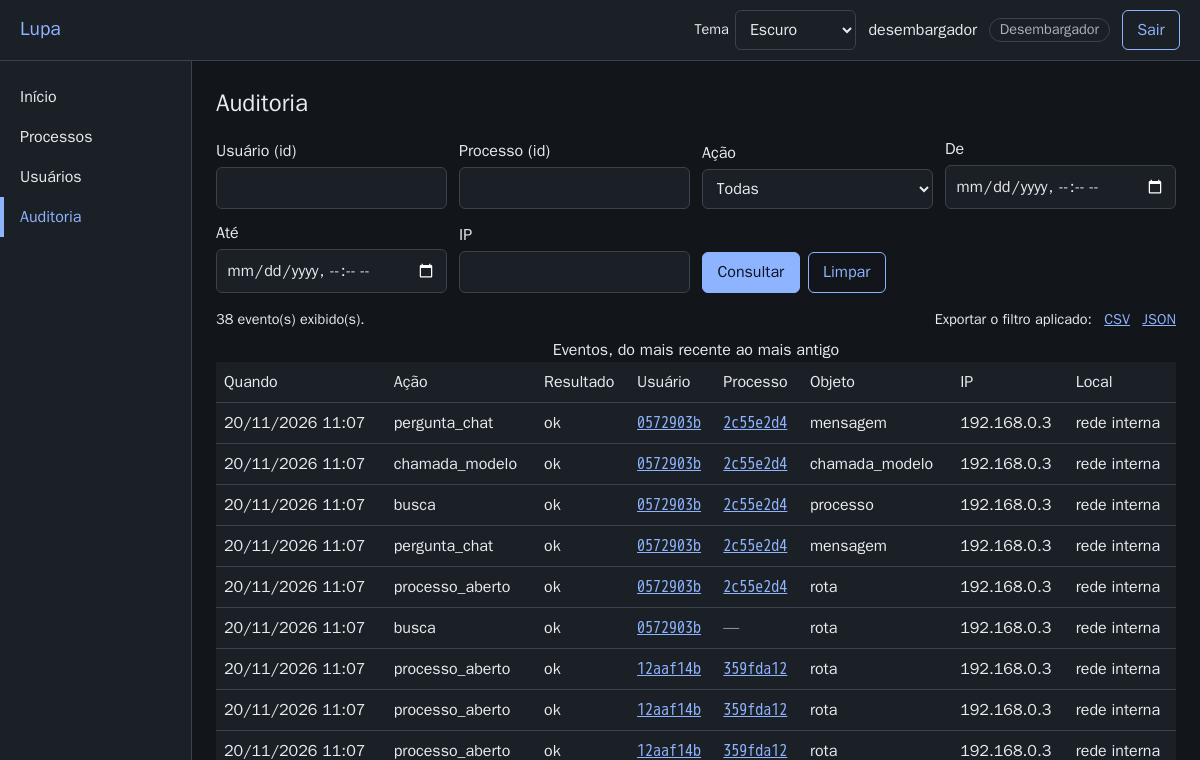
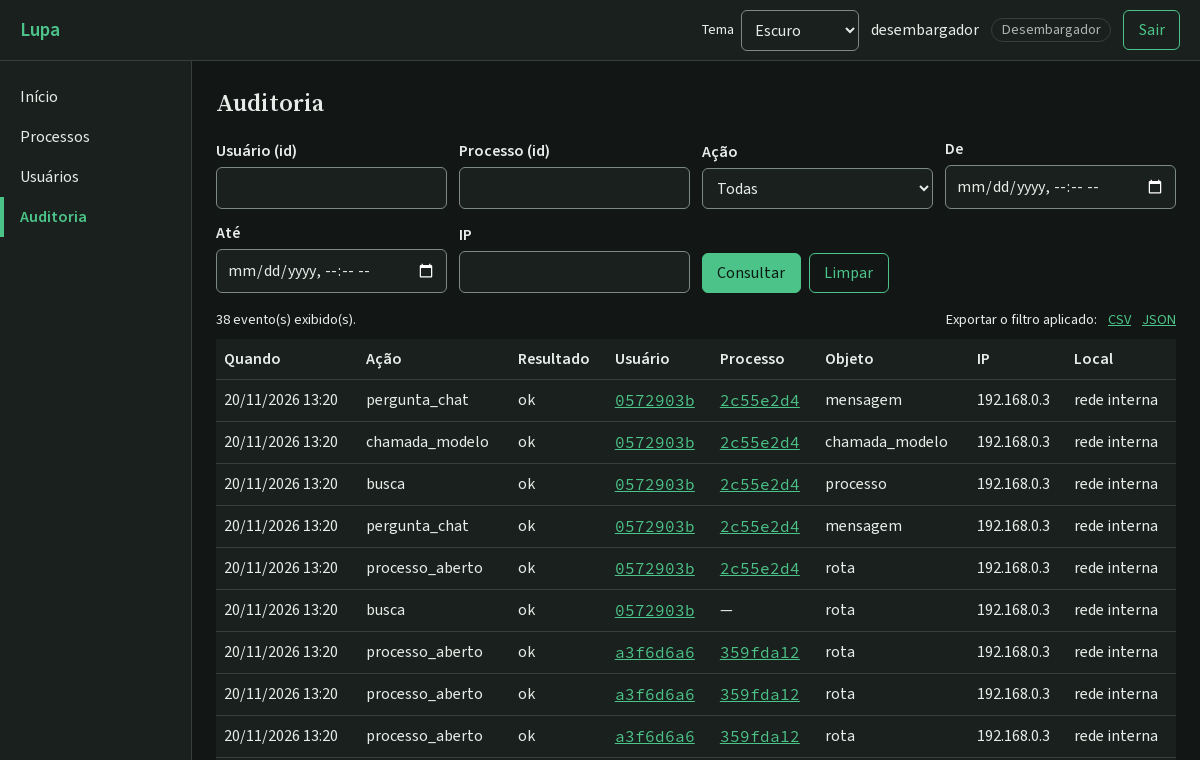
T11.10: axe com todas as regras, tabela a 375 px, capturas da /padrao e guias regerados (RF-VIS-04, RF-VIS-06, RNF-09)

diff --git a/intranet/web/src/lupa_web/templates/auditoria/auditoria.html b/intranet/web/src/lupa_web/templates/auditoria/auditoria.html
@@ -66,9 +66,9 @@
   {% if relatorio %}
   <div data-testid="relatorio-uso">
     <p>Primeiro acesso: {{ relatorio.primeiro }} · Último acesso: {{ relatorio.ultimo }}</p>
-    {% include "componentes/tabela.html" with legenda="Eventos por ação" colunas=colunas_contagem testid="" corpo="auditoria/_linhas_contagem.html" %}
+    {% include "componentes/tabela.html" with legenda="Contagem de eventos" colunas=colunas_contagem testid="" corpo="auditoria/_linhas_contagem.html" %}
     {% if relatorio.chamadas_modelo %}
-    {% include "componentes/tabela.html" with legenda="Chamadas ao modelo por versão" colunas=colunas_chamadas testid="" corpo="auditoria/_linhas_chamadas.html" %}
+    {% include "componentes/tabela.html" with legenda="Chamadas ao modelo em cada versão" colunas=colunas_chamadas testid="" corpo="auditoria/_linhas_chamadas.html" %}
     {% endif %}
     <div class="custo" data-testid="custo-estimado">
       <strong>Custo estimado: {{ relatorio.custo_total }}</strong> — {{ relatorio.custo_estimado.observacao }}

diff --git a/intranet/web/src/lupa_web/static/css/componentes.css b/intranet/web/src/lupa_web/static/css/componentes.css
@@ -123,7 +123,7 @@
   margin-bottom: 1.5rem;
 }
 
-.cartao h3 {
+.cartao[data-componente="cartao"] h3 {
   margin: 0 0 0.5rem;
 }
 

diff --git a/intranet/web/tests/e2e/test_acessibilidade.py b/intranet/web/tests/e2e/test_acessibilidade.py
@@ -1,7 +1,7 @@
 """E2E de acessibilidade: axe-core nos dois temas, teclado com foco visível e tema manual (RNF-09).
 
-Reutiliza as contas criadas pelos fluxos; a varredura não aceita violação séria ou crítica das
-regras WCAG 2.1 A e AA, contraste incluído.
+Reutiliza as contas criadas pelos fluxos; a varredura roda todas as regras do axe, boas práticas
+incluídas, em toda tela e na `/padrao`, e não aceita nenhuma violação (RF-VIS-06).
 """
 
 import re
@@ -19,8 +19,7 @@ pytestmark = pytest.mark.e2e
 
 TEMAS = ("claro", "escuro")
 AXE = files("axe_playwright_python").joinpath("axe.min.js").read_text(encoding="utf-8")
-GRAVES = {"serious", "critical"}
-REGRAS_WCAG = ["wcag2a", "wcag2aa", "wcag21a", "wcag21aa"]
+LARGURA_DO_CELULAR = 375
 TABS_NO_CABECALHO = 12
 TABS_ATE_A_PERGUNTA = 6
 FOCO_VISIVEL = """() => {
@@ -70,7 +69,16 @@ TELAS = (
     ),
     Tela("desembargador", lambda: "/usuarios", re.compile("Usuários")),
     Tela("desembargador", lambda: "/auditoria", re.compile("Auditoria")),
+    Tela("desembargador", lambda: "/padrao", re.compile(r"^Padrão visual$")),
 )
+ROLAGEM = """() => {
+  const raiz = document.documentElement;
+  const regioes = Array.from(document.querySelectorAll('.tabela-rolavel'));
+  return {
+    pagina: raiz.scrollWidth - raiz.clientWidth,
+    tabela: Math.max(...regioes.map((r) => r.scrollWidth - r.clientWidth)),
+  };
+}"""
 
 
 def foco_visivel(page: Page) -> bool:
@@ -108,7 +116,7 @@ def abrir(
 
 
 def varrer(page: Page) -> list[dict[str, Any]]:
-    """Violações do axe-core (WCAG 2.1 A e AA) na página atual.
+    """Violações do axe-core, com todas as regras, na página atual.
 
     Args:
         page: Página carregada.
@@ -117,17 +125,17 @@ def varrer(page: Page) -> list[dict[str, Any]]:
         Violações como o `axe.run` devolve.
     """
     page.evaluate(AXE)
-    opcoes = {"runOnly": {"type": "tag", "values": REGRAS_WCAG}, "resultTypes": ["violations"]}
+    opcoes = {"resultTypes": ["violations"]}
     resultado = page.evaluate("(opcoes) => axe.run(document, opcoes)", opcoes)
     violacoes: list[dict[str, Any]] = resultado["violations"]
     return violacoes
 
 
 @pytest.mark.parametrize("tema", TEMAS)
-def test_axe_sem_violacao_grave_em_todas_as_telas(
+def test_axe_sem_violacoes_em_toda_tela(
     browser: Browser, assessor_processos: Conta, desembargador: Conta, tema: str
 ) -> None:
-    """RNF-09: nenhuma violação séria ou crítica do axe em nenhuma tela, nos dois temas."""
+    """RF-VIS-06, RNF-09: nenhuma violação do axe, sem filtro de tags, em toda tela e na /padrao."""
     contas = {"assessor": assessor_processos, "desembargador": desembargador}
     achados: list[str] = []
     for tela in TELAS:
@@ -139,11 +147,21 @@ def test_axe_sem_violacao_grave_em_todas_as_telas(
             page.locator("summary", has_text="Novo processo").click()
         expect(page.locator("html")).to_have_attribute("data-tema", tema)
         for violacao in varrer(page):
-            if violacao["impact"] in GRAVES:
-                alvos = " | ".join(" ".join(n["target"]) for n in violacao["nodes"][:5])
-                achados.append(f"{caminho} [{tema}] {violacao['id']}: {alvos}")
+            alvos = " | ".join(" ".join(n["target"]) for n in violacao["nodes"][:5])
+            achados.append(f"{caminho} [{tema}] {violacao['id']}: {alvos}")
         contexto.close()
     assert achados == [], "\n".join(achados)
+
+
+def test_tabela_larga_rola_sozinha_em_375px(browser: Browser, desembargador: Conta) -> None:
+    """RF-VIS-04: a 375 px a tabela da auditoria rola na sua região e a página não rola de lado."""
+    contexto, page = contexto_como(browser, desembargador, largura=LARGURA_DO_CELULAR)
+    page.goto("/auditoria")
+    expect(page.get_by_test_id("evento").first).to_be_visible()
+    rolagem = page.evaluate(ROLAGEM)
+    assert rolagem["pagina"] <= 0, rolagem
+    assert rolagem["tabela"] > 0, rolagem
+    contexto.close()
 
 
 def test_login_inteiro_pelo_teclado_com_foco_visivel(page: Page) -> None:

diff --git a/intranet/web/tests/e2e/test_capturas.py b/intranet/web/tests/e2e/test_capturas.py
@@ -2,8 +2,9 @@
 
 `test_gera_capturas_dos_guias` grava em `LUPA_CAPTURAS_DIR` os PNGs que `docs/guias/*.md`
 referenciam; `test_retrata_as_telas_nos_temas_e_no_celular` grava cada tela nos temas claro e
-escuro e na largura de celular em `LUPA_CAPTURAS_VISUAL`. Rodam pelo `capturas.sh`, numa stack
-nova (RNF-09); não conferem regra, só navegam e fotografam.
+escuro e na largura de celular em `LUPA_CAPTURAS_VISUAL`, onde
+`test_capturas_do_padrao_nos_tres_formatos` grava também a `/padrao`. Rodam pelo `capturas.sh`,
+numa stack nova (RNF-09); não conferem regra, só navegam e fotografam.
 """
 
 import os
@@ -179,3 +180,21 @@ def test_retrata_as_telas_nos_temas_e_no_celular(
                 contexto, page = contexto_como(browser, conta, tema, largura)
                 _retratar(page, pasta, sufixo, telas)
                 contexto.close()
+
+
+def test_capturas_do_padrao_nos_tres_formatos(browser: Browser, desembargador: Conta) -> None:
+    """RF-VIS-06: a `/padrao` em claro e escuro a 1200 px e em claro a 375 px."""
+    pasta = _pasta("LUPA_CAPTURAS_VISUAL", "lupa-visual")
+    formatos = (
+        ("claro", LARGURA_DA_MESA),
+        ("escuro", LARGURA_DA_MESA),
+        ("claro", LARGURA_DO_CELULAR),
+    )
+    for tema, largura in formatos:
+        contexto, page = contexto_como(browser, desembargador, tema, largura)
+        page.goto("/padrao")
+        expect(page.get_by_role("heading", level=1)).to_have_text("Padrão visual")
+        foto(page, pasta, f"padrao-{tema}-{largura}", inteira=True)
+        contexto.close()
+    for tema, largura in formatos:
+        assert (pasta / f"padrao-{tema}-{largura}.png").stat().st_size > 0

diff --git a/docs/planos/tarefas_0.2.md b/docs/planos/tarefas_0.2.md
@@ -1030,9 +1030,24 @@ Execução do [plano do padrão visual](plano_padrao_visual.md). Um único PR da
     intranet/web/pyproject.toml intranet/web/tests/unit/test_conformidade_templates.py`.
     Vermelho: 1 failed (templates de `auditoria/` e `usuarios/`). Verde: unit e telas 433
     passed, cobertura 100%; ruff e mypy limpos.
-- [ ] **T11.10** Axe com todas as regras, tabela a 375 px e capturas da `/padrao`; guias regerados. RF-VIS-04, RF-VIS-06, RNF-09. Fase 7; P4, D10.
+- [x] **T11.10** Axe com todas as regras, tabela a 375 px e capturas da `/padrao`; guias regerados. RF-VIS-04, RF-VIS-06, RNF-09. Fase 7; P4, D10.
   - Revisão manual (E2E): `intranet/web/tests/e2e/test_acessibilidade.py::test_axe_sem_violacoes_em_toda_tela` (sem filtro de tags, dois temas, inclui `/padrao`), `::test_tabela_larga_rola_sozinha_em_375px`, `test_capturas.py::test_capturas_do_padrao_nos_tres_formatos`; violações achadas corrigidas em commit próprio; `docs/imagens/` regerado por `capturas.sh`.
   - Pronto quando: `bash intranet/web/scripts/e2e.sh` verde e capturas conferidas pelo usuário.
+  - Entregue: `varrer` sem `runOnly` e o teste renomeado para `test_axe_sem_violacoes_em_toda_tela`,
+    que falha em qualquer violação (antes só sérias e críticas das tags WCAG A/AA) e inclui a
+    `/padrao`; `test_tabela_larga_rola_sozinha_em_375px` (auditoria a 375 px: a página não rola de
+    lado e a `.tabela-rolavel` rola); `test_capturas_do_padrao_nos_tres_formatos`. A `/padrao`
+    roda no E2E pela D11 (`LUPA_AMBIENTE=desenvolvimento` só no `front`). Correções achadas: a
+    regra `.cartao h3` da T11.3 vazava para o `h3` das telas (agora
+    `.cartao[data-componente="cartao"] h3`); as legendas das tabelas do relatório de uso
+    ("... por ação/versão") colidiam com `get_by_label("Por")` e viraram "Contagem de eventos" e
+    "Chamadas ao modelo em cada versão". `docs/imagens/` regerado por `capturas.sh`; capturas de
+    toda tela (claro/escuro, 1200 e 375 px) e da `/padrao` geradas fora do repositório. Testes:
+    `bash intranet/web/scripts/e2e.sh`. Vermelho: a varredura nova já veio sem violação do axe;
+    o vermelho foi 1 failed em `test_chat_auditoria.py::test_relatorio_por_usuario_traz_o_custo_estimado`
+    (modo estrito do `get_by_label("Por")`). Verde: E2E 37 passed em 85 s; `capturas.sh` 3
+    passed; unit e telas 433 passed, cobertura 100%. Pendente: conferência das capturas pelo
+    usuário.
 - [ ] **T11.11** Documentação. RF-VIS-04. Fase 8.
   - Revisão manual: `docs/sistema/padrao-visual.md` (tokens, componentes com exemplo de `include`, SHA-256 das fontes), `docs/sistema/front.md`, `docs/README.md`, `CHANGELOG.md` em "Não publicado".
   - Pronto quando: `LUPA_EXIGIR_CABECALHOS=1 bash scripts/verificar.sh` verde.
